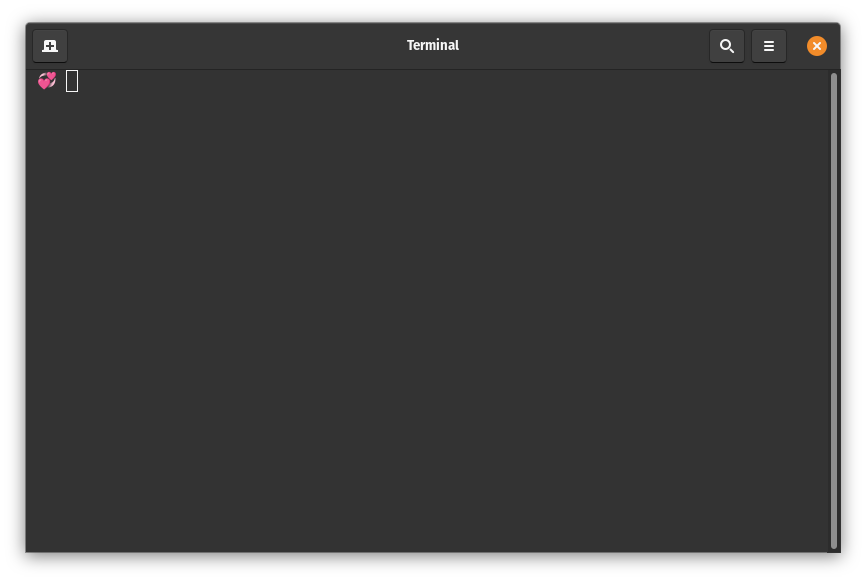
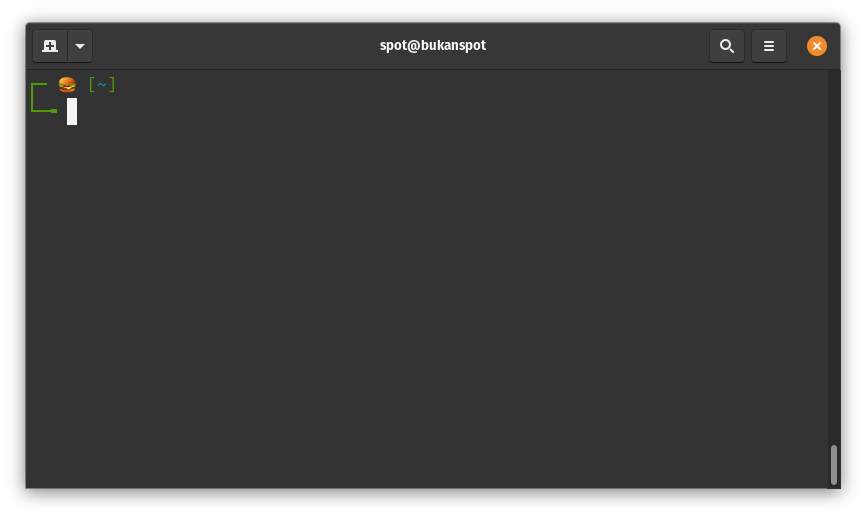
two_line

Changed region(s): [[0.0312, 0.0309, 0.9665, 0.8665], [0.0312, 0.9284, 0.9665, 0.9594]]

diff --git a/README.md b/README.md
@@ -8,11 +8,10 @@ Tema emotikon pada terminal linux
 # command
 ```
 $ cd "download folder"
+$ mv <file> .bashrc
 $ cp .bashrc ~
 ```
 
 # tampilan
 ### Terminal pada PopOS
 ![deian on wsl](https://raw.githubusercontent.com/bukanspot/.bashrc/main/terminal-gnome.png)
-### Terminal pada WSL Windows
-![deian on wsl](https://raw.githubusercontent.com/bukanspot/.bashrc/main/debian-wsl.png)
